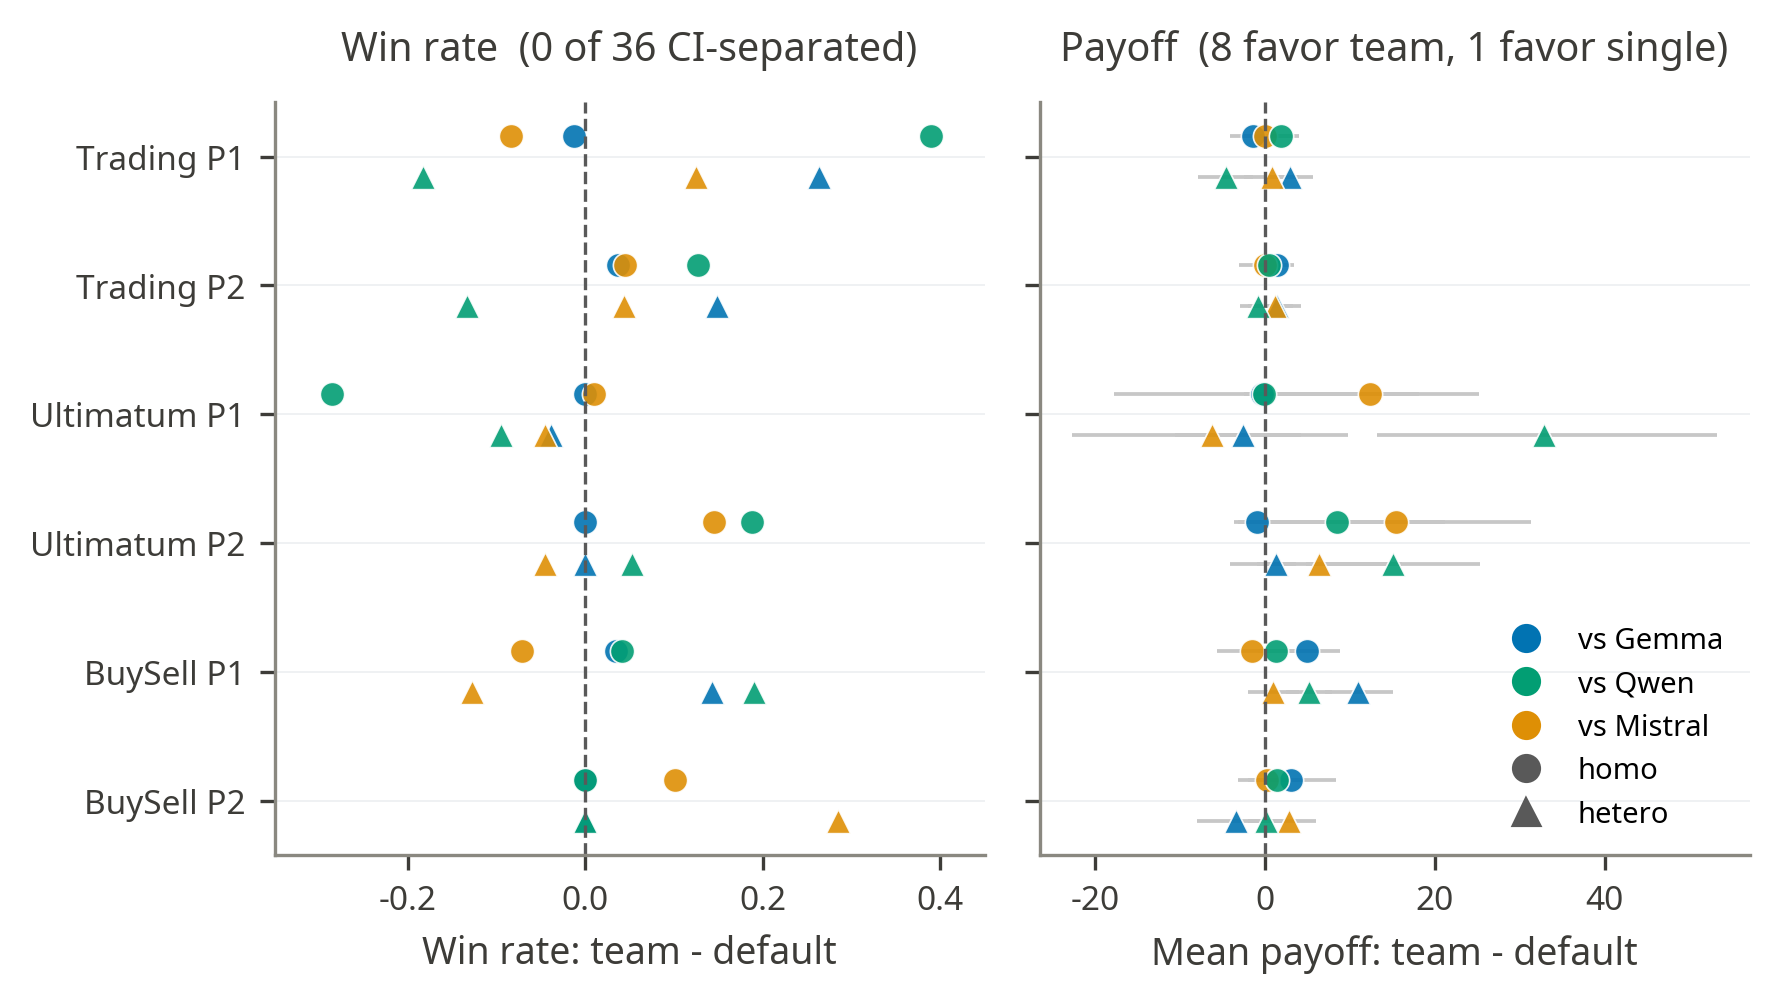
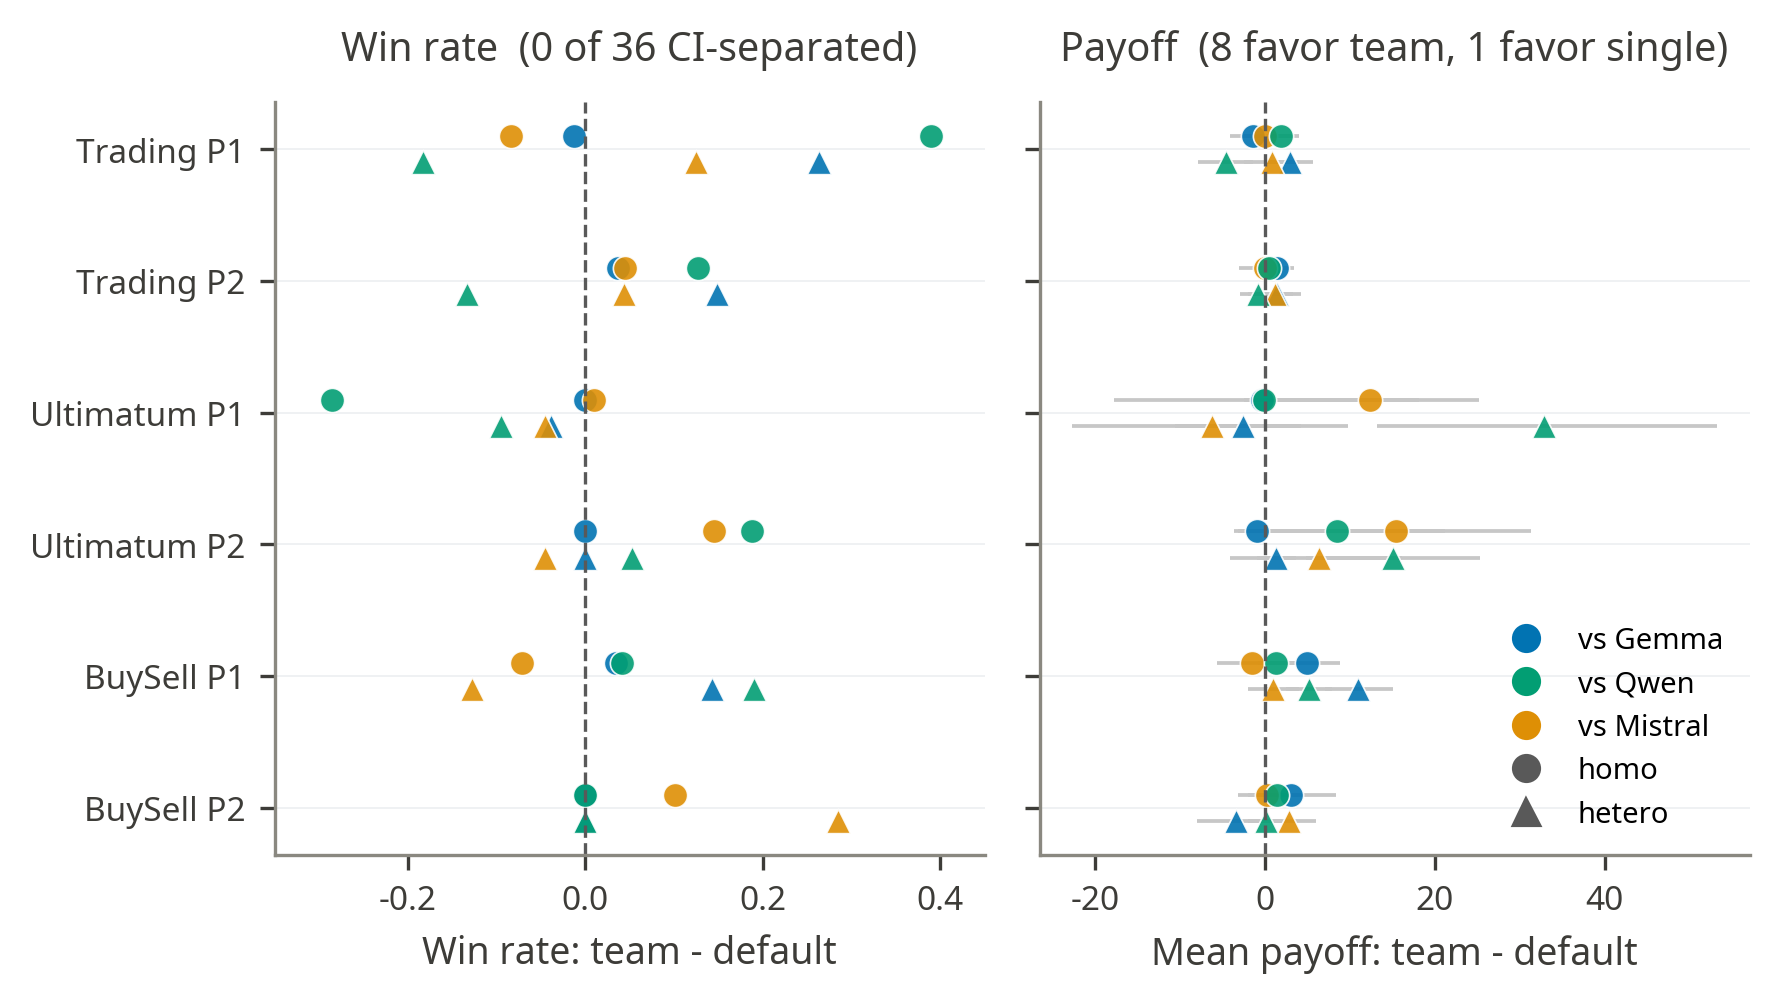
Update chapter 4 of the thesis

diff --git a/context/MSc_Thesis/body/chapter4.tex b/context/MSc_Thesis/body/chapter4.tex
@@ -299,29 +299,30 @@ change behaviour, sometimes strongly, but these gains are conditional. The main 
 
 \speaker{Final response (after two iterations)} I propose that I give you 10 Dollars. This is fair and gives you an incentive to accept.
 \end{negotiationexcerpt}
-
 \section{Team Negotiation} \label{sec:results-team}
 
 % Does a deliberating team of LLMs negotiate better than a single one?
+Finally, we ask whether a deliberating team of three models (Section~\ref{sec:team-negotiation}) negotiates better than a single agent. We compare \textit{homogeneous} teams, composed of three identical models, and \textit{heterogeneous} teams, whose members include one model from each family: Gemma, Mistral, and Qwen. We evaluate both compositions from the P1 and P2 seats at the small (12--14B) tier. 
 
 % Short answer: no, at least not in win rate -> As seen in \figure{fig:team-winrate-scatter} not a single team-versus-default comparison has separated confidence intervals
-
 % Averaged, the win-rate lift is small (+0.035), with homogeneous and heterogeneous teams both close to the default baseline.
-
-\begin{figure}
-    \centering
-    \includegraphics[width=0.80\linewidth]{figures/results/team/default_homo_hetero_winrate.png}
-    \caption{Team versus fixed-opponent single-agent win rate with Wilson 95\% confidence intervals. }
-    \label{fig:team-winrate-scatter}
-\end{figure}
 
 % Payoff tells a slightly more favourable, but still limited, story
 % Analyzing payoff there's a slight increase. 8 of the 36 configurations (game x seat x composition x opponent)  favour the team at the 95% confidence level, while only 1 favoured the single agent. 
 
+The short answer is that it does not, at least not in win rate. In win rate, not a single team-versus-default comparison has separated confidence intervals (Figure~\ref{fig:team-winrate-scatter}), only lifting the average win rate by 0.035 over the baseline. Payoff tells a marginally different story (Figure~\ref{fig:team-payoff-scatter}); eight of the thirty-six configurations favour the team, against one that favours the single agent.
+
+\begin{figure}
+    \centering
+    \includegraphics[width=0.80\linewidth]{figures/results/team/default_homo_hetero_winrate.png}
+    \caption{Team versus fixed-opponent single-agent win rate, one point per configuration, with Wilson 95\% confidence intervals. No configuration separates from the diagonal: deliberation does not raise win rate over the matched single-agent baseline.}
+    \label{fig:team-winrate-scatter}
+\end{figure}
+
 \begin{figure}
     \centering
     \includegraphics[width=0.80\linewidth]{figures/results/team/default_homo_hetero_payoff.png}
-    \caption{Team versus fixed-opponent single-agent payoff with Wilson 95\% confidence intervals. }
+    \caption{Team versus fixed-opponent single-agent payoff, one point per configuration, with bootstrap 95\% confidence intervals. Eight configurations favour the team and one the single agent; the rest are indistinguishable from the baseline.}
     \label{fig:team-payoff-scatter}
 \end{figure}
 
@@ -331,9 +332,11 @@ change behaviour, sometimes strongly, but these gains are conditional. The main 
 
 % The heterogeneous trio as the BuySell pools a surplus of +7.1 ZUP against the +1.6 of the fixed default agents
 
+Payoff gains tend to appear where the seat is structurally weak: out of the eight configurations in which teams achieve a higher payoff, five involve a disadvantaged seat. The clearest example is the heterogeneous trio as the BuySell seller (Figure~\ref{fig:team-buysell-seller}), which increases payoff by 5.6 ZUP. The heterogeneous trio in Ultimatum, when acting as proposer, has the highest single gain with a payoff against Qwen of +32.8. Per-configuration deltas are reported in the win-rate and payoff heatmaps in Appendix~\ref{ap6:team}.
+
 \begin{figure}
     \centering
-    \includegraphics[width=0.75\linewidth]{figures/results/team/buysell_seller_surplus.png}
+    \includegraphics[width=0.5\linewidth]{figures/results/team/buysell_seller_surplus.png}
     \caption{BuySell seller (Player~1) mean surplus by team composition and opponent, with bootstrap 95\% confidence intervals. The heterogeneous team's pooled advantage over the default single agent is $\Delta$\,$+5.6$ ZUP (CI $[3.3,\ 7.9]$), with individual separation against Gemma and Qwen opponents.}
     \label{fig:team-buysell-seller}
 \end{figure}
@@ -342,47 +345,59 @@ change behaviour, sometimes strongly, but these gains are conditional. The main 
 
 % Measuring within-turn draft diversity as the mean pairwise cosine distance between the three members’ TF-IDF-vectorised drafts, heterogeneous teams are consistently more diverse than homogeneous ones in every game (≈ 0.50 versus ≈ 0.36)
 
+One of our main objectives was to measure whether team diversity affects performance. To do so, we measured within-turn draft diversity as the mean pairwise cosine distance between the TF-IDF-vectorized drafts of the three team members. We found that heterogeneous teams are consistently more diverse than homogeneous teams in every game ($\approx 0.50$ versus $\approx 0.36$; Figure~\ref{fig:draft-diversity-bar}). However, this diversity does not translate into better outcomes. The mean heterogeneous-minus-homogeneous win-rate difference across the common-opponent configurations is essentially zero ($-0.005$; Figure~\ref{fig:homo-vs-hetero-wr}), and draft diversity has essentially no correlation with normalised payoff (Spearman $\rho \approx -0.05$, n.s.) and only a tiny negative association with win rate ($\rho \approx -0.09$, $p = 0.01$).
+
 \begin{figure}
     \centering
-    \includegraphics[width=0.72\linewidth]{figures/results/team/draft_diversity_bar.png}
+    \includegraphics[width=0.5\linewidth]{figures/results/team/draft_diversity_bar.png}
     \caption{Mean pairwise cosine distance between initial member drafts by composition and game. Heterogeneous teams consistently generate more diverse proposals than homogeneous ones, but this diversity is not positively associated with payoff or win rate.}
     \label{fig:draft-diversity-bar}
 \end{figure}
 
-% The mean heterogeneous-minus-homogeneous win-rate difference is approximately zero (−0.005)
-
 \begin{figure}
     \centering
-    \includegraphics[width=0.75\linewidth]{figures/results/team/homo_vs_hetero_winrate.png}
-    \caption{Homogeneous versus heterogeneous team win rate for the 18 common-opponent cells, with Wilson 95\% confidence intervals. No systematic advantage appears for either composition.}
+    \includegraphics[width=0.5\linewidth]{figures/results/team/homo_vs_hetero_winrate.png}
+    \caption{Homogeneous versus heterogeneous team win rate for the common-opponent configurations, with Wilson 95\% confidence intervals. No systematic advantage appears for either composition.}
     \label{fig:homo-vs-hetero-wr}
 \end{figure}
 
 \subsection{Consensus and Selection}
 
-%Across the 650 heterogeneous moves, the Ministral member’s draft wins the Borda count 80.5% of the time, while Gemma supplies 17.4% of chosen moves and Qwen only 2.2% 
+%Across the 650 heterogeneous moves, the Ministral member’s draft wins the Borda count 80.5% of the time, while Gemma supplies 17.4% of chosen moves and Qwen only 2.2%
+
+One possible pattern in how the team selects its move offers a candidate explanation for why diversity does not help: the consensus concentrates on a single member rather than spreading across the slate. Across the 650 committed heterogeneous moves, the Ministral member's draft wins the Borda count 80.5\% of the time, while Gemma accounts for only 17.4\% of chosen moves and Qwen just 2.2\%. This is not just Ministral choosing itself; all three families rank the Ministral draft first most often (Figure~\ref{fig:hetero-voter-pref}). This is especially problematic considering that in the cross-play benchmark, Qwen was the strongest model. 
+
+We considered two possibilities that may have biased this selection: the order in which the moves are presented and the length of the drafts. To rule out both possibilities, we used the homogeneous teams' results, since they hold the model constant and vary only slot and length.
+
+First, we consider the order of moves. The slate is always presented in the same order (Gemma, Ministral, Qwen), so it could be the case that the middle option had a position bias. When analyzing the ranking of slots in homogeneous teams, we do notice there is a position bias, but it favors the first slot (53.9\% against a 33.3\% chance baseline), a slot Ministral never occupies. 
+
+Length was also a possibility: Ministral writes the longest drafts on 84.2\% of turns, but within homogeneous teams, the longest draft wins just 38.2\% of the time, and draft length is uncorrelated with a draft's Borda score (Spearman $\rho = +0.006$, $p = 0.8$). The preference, therefore, tracks something in the content or style of Ministral’s drafts that we do not isolate here, rather than their position or length.
 
 \begin{figure}
     \centering
-    \includegraphics[width=0.72\linewidth]{figures/results/team/hetero_voter_preferences.png}
-    \caption{First-place ranking frequency in heterogeneous teams. All three families most often prefer the Ministral draft.}
+    \includegraphics[width=0.5\linewidth]{figures/results/team/hetero_voter_preferences.png}
+    \caption{First-place ranking frequency in heterogeneous teams, broken down by voting family. All three families most often rank the Ministral draft first, even though Qwen is the strongest single family in the benchmark.}
     \label{fig:hetero-voter-pref}
 \end{figure}
 
-\begin{negotiationexcerpt}{Three drafts, a ranking cycle, and a Borda-decided move}{Ultimatum, heterogeneous team (Gemma + Ministral + Qwen 12--14B) as P1; run \texttt{1780559236002}, turn 0}
-\speaker{Draft A (Gemma)} \texttt{Player RED Gives Dollars: 1}. ``Since BLUE has nothing, I can propose giving them a small amount \elide''
+\begin{negotiationexcerpt}[label=ex:team-consensus]{All three members vote down their own generosity}{Ultimatum, heterogeneous team (Gemma + Ministral + Qwen 12--14B) as proposer vs.\ a single Gemma; run \texttt{1780563747259}, turn 0}
+\speaker{Draft (Gemma)} \texttt{Player RED Gives Dollars: 25}~\elide
 
-\speaker{Draft B (Ministral)} \texttt{Player RED Gives Dollars: 1}. ``a minimal but fair starting point \elide''
+\speaker{Draft (Qwen)} \texttt{Player RED Gives Dollars: 25}. ``Offering 1 Dollar is too minimal and risks rejection \elide a more substantial share \elide aligns with behavioral economics research on ultimatum games.''
 
-\speaker{Draft C (Qwen)} \texttt{Player RED Gives Dollars: 20}. ``If they reject, both of us lose everything, so it's better to offer them a reasonable share.''
-
-\medskip
-\noindent After two discussion rounds the slate is $\{\$20, \$5, \$20\}$; the members' rankings cycle, the Borda count ties $3{:}3{:}3$, and the deterministic tie-break selects the first \$20 candidate, whose reasoning is re-voiced and committed:
+\speaker{Draft (Ministral)} \texttt{Player RED Gives Dollars: 1}. ``Any non-zero offer will be accepted, as rejection yields 0. A 1-Dollar offer guarantees acceptance while minimizing RED's loss to 1\%.''
 
 \medskip
-\speaker{Final move} ``Player RED proposes a trade: I offer you 20 Dollars from my 100. \elide Accept to secure your first gain, or reject and risk losing everything.'' 
+\noindent In the ranking phase all three members --- including the two who drafted the \$25 split --- place Ministral's \$1 draft first (Borda $6{:}2{:}1$). The winning reason is rewritten into first person, mentioning no teammates, and committed:
+
+\medskip
+\speaker{Final move} ``Give BLUE 1 Dollar. ACCEPT to secure this trade, REJECT to end the game with nothing for either. \elide Retaining 99 Dollars \elide is the Pareto-efficient outcome.''
+
+\speaker{P2 (single Gemma)} ``RED is offering 1 dollar. Since I have nothing, accepting this is the best possible outcome.''~\texttt{ACCEPT}
+
+\medskip
+\noindent Final split: the team keeps \$99, the responder \$1.
 \end{negotiationexcerpt}
-
 
 \subsection{Inside the Discussion}
 
@@ -391,7 +406,29 @@ change behaviour, sometimes strongly, but these gains are conditional. The main 
 %There's a convergence of proposals
 %Revisions tend to harden rather than concede
 
+Members rewrite their offer on 57\% of first-round revisions in heterogeneous teams and 44\% in homogeneous ones, with the second round revising less (40\% and 32\%). There is a convergence of offers with the number of rounds. Heterogeneous teams begin far apart, with all three members proposing the same offer on only 20\% of turns, rising to 48\% after one round and 59\% after the second. A similar pattern also occurs in homogeneous teams $(40\% \rightarrow 59\% \rightarrow 65\%)$.
+
+To measure the direction of the member's revisions each proposal is mapped onto the payoff its author would receive if the offer was accepted (the seller's price minus 40, the buyer's 60 minus price, the proposer's 100 minus offer, the responder's demanded share, and the net units received in Trading). A prevision then either raises this payoff (hardening, asking for more) or lowers it (conceding). 
+
+When a member revises its offer, it is usually to raise its own claim. This is clear in BuySell, where 73\% of revisions move up and the self-claim rises by about 5.3 ZUP on average, and weakly in Ultimatum and Trading. 
+
+\begin{figure}
+    \centering
+    \includegraphics[width=0.95\linewidth]{figures/results/team/revision_direction.png}
+    \caption{Direction of member revisions by game and team composition, comparing each member's initial draft with its final one. A revision \emph{hardens} if it raises the member's own payoff-if-accepted, \emph{softens} if it lowers it, and is \emph{no move} if the offer is unchanged. Most revisions leave the offer unchanged; where it moves, hardening dominates in BuySell and in heterogeneous Ultimatum teams, while Trading is balanced.}
+    \label{fig:team-revision-direction}
+\end{figure}
+
 \subsection{Cost}
 
-% How many more caracters are generated?
+% How many more characters are generated?
 % Taken together, team deliberation is not a reliable improvement for open-weight negotiators.
+
+On average, a single agent generates ~990 chars per move, an homogeneous team ~12,000 (12x) and an heterogeneous team ~14,700 (15x). Taken together, our implementation of team deliberation is not a reliable improvement for open-weight negotiators at this tier. It leaves win rate unchanged, moderately improves certain seat-specific payoff gains and increases by an order-of-magnitude the cost.
+
+\begin{figure}
+    \centering
+    \includegraphics[width=0.80\linewidth]{figures/results/team/character_count_proxy.png}
+    \caption{Character-count proxy for generation cost by arm. The public move grows by $1.47\times$ (homogeneous) and $2.35\times$ (heterogeneous) over the single-agent default, and the persisted internal deliberation is roughly $6$--$8\times$ the final public move on top of that.}
+    \label{fig:team-character-count}
+\end{figure}

diff --git a/context/MSc_Thesis/backmatter/appendix6.tex b/context/MSc_Thesis/backmatter/appendix6.tex
@@ -1,0 +1,35 @@
+\chapter{Additional Team Negotiation Results} \label{ap6:team}
+
+This appendix collects the per-configuration team-versus-default deltas for all thirty-six
+configurations (game $\times$ seat $\times$ composition $\times$ opponent) summarised in
+Section~\ref{sec:results-team}. 
+
+\begin{figure}[ht]
+    \centering
+    \includegraphics[width=0.85\linewidth]{figures/results/team/team_delta_winrate_heatmap.png}
+    \caption{Team-minus-default win-rate delta for every configuration. Most are close to
+    zero; none reach confidence-interval separation in win rate.}
+    \label{fig:team-delta-winrate-heatmap}
+\end{figure}
+
+\begin{figure}[ht]
+    \centering
+    \includegraphics[width=0.85\linewidth]{figures/results/team/team_delta_payoff_heatmap.png}
+    \caption{Team-minus-default payoff delta for every configuration. The few separated gains
+    are concentrated in first-player seats, led by the heterogeneous team in BuySell and
+    Ultimatum.}
+    \label{fig:team-delta-payoff-heatmap}
+\end{figure}
+
+\section{Consensus Controls} \label{ap6:consensus-controls}
+
+\begin{figure}[ht]
+    \centering
+    \includegraphics[width=0.95\linewidth]{figures/results/team/consensus_robustness.png}
+    \caption{Consensus from homogeneous teams (model held constant).
+    Left: winner share by slate slot; the ranking favours the first slot, which Ministral
+    never occupies. Right: mean draft length by member in heterogeneous teams; Ministral's
+    drafts are the longest, yet within homogeneous teams the longest draft wins only $38\%$
+    of votes, near the $33\%$ chance baseline.}
+    \label{fig:consensus-robustness}
+\end{figure}

diff --git a/context/MSc_Thesis/body/chapter3.tex b/context/MSc_Thesis/body/chapter3.tex
@@ -2,12 +2,12 @@
 
 \chapter{Methodology} \label{chap:ch3}
 
-This chapter describes how the negotiation capabilities of open-weight large language models were evaluated and how the two inference-time techniques studied in this thesis (Self-Refine and Team Negotiation) were implemented. Section~\ref{sec:na-framework} introduces the NegotiationArena framework of \textcite{bianchi_how_2024}, which is shared across all experiments, together with its three game scenarios and the metrics used to score them. Section~\ref{sec:models-infra} presents the models under evaluation and the infrastructure used to run them. The remaining sections describe the experimental design for each of the three contributions: benchmarking open-weight models (Section~\ref{sec:benchmarking}), self-refine (Section~\ref{sec:self-refine}) and team-based negotiation (Section~\ref{sec:team-negotiation}). Table~\ref{tab:experiment-design} summarises the full experimental design.
+This chapter describes how the negotiation capabilities of open-weight large language models were evaluated and how the two inference-time techniques studied in this thesis (Self-Refine and Team Negotiation) were implemented. Section~\ref{sec:na-framework} introduces the NegotiationArena framework of \textcite{bianchi_how_2024}, which is shared across all experiments, together with its three game scenarios (i.e., Price Negotiation, Trading, and Ultimatum) and the metrics used to score them. Section~\ref{sec:models-infra} presents the models under evaluation and the infrastructure used to run them. The remaining sections describe the experimental design for each of the three contributions: benchmarking open-weight models (Section~\ref{sec:benchmarking}), self-refine (Section~\ref{sec:self-refine}), and team-based negotiation (Section~\ref{sec:team-negotiation}). Table~\ref{tab:experiment-design} summarises the full experimental design.
 
 \begin{table}
 \centering
 \small
-\caption{Summary of the experimental design. All experiments are run on each of the three games and execute $30$ games per model pair and condition. The parse-error retry ablation (Sec.~\ref{sec:retry-ablation}) re-runs the benchmark cross-play and the social-persona conditions with \texttt{max\_retries}\,$=3$ and compares them against their \texttt{max\_retries}\,$=0$ baselines.}
+\caption{Summary of the experimental design. All experiments are run on each of the three games.  For each game, we report averaged results over $30$ runs, covering all combinations of model pairs and conditions. . The parse-error retry ablation (Sec.~\ref{sec:retry-ablation}) re-runs the benchmark cross-play and the social-persona conditions with \texttt{max\_retries}\,$=3$ and compares them against their \texttt{max\_retries}\,$=0$ baselines.}
 \label{tab:experiment-design}
 \begin{tabular}{llll}
 \toprule
@@ -23,7 +23,7 @@ Team negotiation (Sec.~\ref{sec:team-negotiation})      & Small  & Team vs.\ sin
 
 \section{NegotiationArena Framework} \label{sec:na-framework}
 
-\textcite{bianchi_how_2024} introduced NegotiationArena, an open-source framework to evaluate and analyze the negotiation abilities of LLM agents. The original work focused on proprietary models, some of which have since been deprecated; we keep the games and protocol unchanged, but replace the agents with the open-weight models identified in Table~\ref{tab:experiment-models} and extend it by implementing two inference-time techniques (Sections~\ref{sec:self-refine} and~\ref{sec:team-negotiation}). 
+\textcite{bianchi_how_2024} introduced NegotiationArena, an open-source framework to evaluate and analyze the negotiation abilities of LLM-based agents. The original work focused on proprietary models, some of which have since been deprecated; we keep the games and protocol unchanged, but replace the agents with the open-weight models identified in Table~\ref{tab:experiment-models} and extend it by implementing two inference-time techniques (Sections~\ref{sec:self-refine} and~\ref{sec:team-negotiation}). 
 
 \subsection{Games} \label{sec:games}
 % Explicar: Ultimatum Game; Trading Game; Price Negotiation (BuySell)
@@ -32,13 +32,13 @@ Team negotiation (Sec.~\ref{sec:team-negotiation})      & Small  & Team vs.\ sin
 In each scenario, two agents alternate turns for up to a fixed number of rounds, or until one side terminates the game. Before each move, the agent reasons privately step by step; this reasoning is never revealed to the opponent.
 
 \paragraph{Resource Exchange Scenario (Trading game).}
-In the trading game, each party starts with a set of resources and aims to maximise their total holdings. The parties exchange proposals until one is accepted or the maximum number of rounds is reached. The agent with the greater gain wins.
+In the trading game, each party starts with a set of resources and aims to maximise its total holdings. The parties exchange proposals until one is accepted or the maximum number of rounds is reached. The agent with the greater gain wins.
 
 \paragraph{Multi-Turn Ultimatum Game.}
 In this variation of the classic Ultimatum Game \cite{doi:10.1126/science.1082976}, one agent receives all of the game's resources but must propose a split that the other accepts in order for either to keep any of it. The second agent can either accept, counter-propose a new split, or reject outright, causing both agents to lose all resources. If no agreement is reached within the maximum number of rounds, both agents lose everything. The winner is the agent with the higher share of the agreed split.
 
 \paragraph{Seller and Buyer Scenario.}
-This is an incomplete-information game in which a seller and a buyer negotiate the price of an item. Each party holds a private valuation: the seller knows its production cost and the buyer its willingness to pay. On each turn, a player may issue a \textsc{Proposal}, \textsc{Accept} the opponent's offer, or \textsc{Reject} and end the game with no deal. An agent wins if the agreed price is closer to the opponent's reservation value than to its own.
+This is an incomplete-information game in which a seller and a buyer negotiate the price of an item. Each party holds a private valuation: the seller knows its production cost and the buyer its willingness to pay. On each turn, a player may issue a \textsc{Proposal}, \textsc{Accept} the opponent's offer, or \textsc{Reject} it (ending the game with no deal). An agent wins if the agreed price is closer to the opponent's reservation value than to its own.
 
 \paragraph{}
 
@@ -63,12 +63,12 @@ This is an incomplete-information game in which a seller and a buyer negotiate t
 
 % Usamos Win Rate (percentagem de jogos ganhos) e Average Payoff como usaram no NegotiationArena
 % Para além disso analisamos a completion rate - percentagem de jogos que alcançam um estado final (por vezes não alcançam por um erro de protocolo/formato). Esta métrica é especialmente importante para medir o impacto do nosso mecanismo de retry 
-Negotiation performance is measured using the two metrics adopted in the NegotiationArena (Win Rate and Average Payoff) complemented by a Completion Rate.
+Negotiation performance is measured using the two metrics adopted in the NegotiationArena (Win Rate and Average Payoff), complemented by a Completion Rate.
 
 \begin{itemize}
     \item \textbf{Win Rate:} Percentage of \textit{completed} games in which a party obtained a higher payoff than the other. As in NegotiationArena, ties are ignored.
-    \item \textbf{Average Payoff:} Average number of resources of each agent after the trade. Its definition is game-specific: in Price Negotiation it is the surplus ($\text{price} - \text{cost}$ for the seller, $\text{value} - \text{price}$ for the buyer); in Trading it is the net change in resource value ($\text{final} - \text{initial}$) and in Ultimatum it is the number of dollars retained.
-    \item \textbf{Completion Rate:} Proportion of games that reach a final state. Because smaller open-weight models frequently violated the response format, this metric is reported alongside the others, and is the primary metric for the retry ablation.
+    \item \textbf{Average Payoff:} Average number of resources of each agent after the trade. Its definition is game-specific: in Price Negotiation, it is the surplus ($\text{price} - \text{cost}$ for the seller, $\text{value} - \text{price}$ for the buyer); in Trading, it is the net change in resource value ($\text{final} - \text{initial}$); and, in Ultimatum, it is the number of dollars retained.
+    \item \textbf{Completion Rate:} Proportion of games that reach a final state. Because smaller open-weight models frequently violated the response format, this metric is reported alongside the others and is the primary metric for the retry ablation.
 \end{itemize}
 
 \section{Models and Infrastructure} \label{sec:models-infra}
@@ -82,9 +82,9 @@ Negotiation performance is measured using the two metrics adopted in the Negotia
 
 Open-weight models vary considerably in scale, so our objective was to group them into comparable parameter tiers in order to measure performance differences across model sizes. We defined three tiers: 4–9B, 12–14B, and 24–27B parameters. 
 
-For each tier, we selected models from three families: Qwen, Mistral, and Gemma. Maintaining a consistent version across all tiers was not possible for Qwen and Mistral, so we included models from both Qwen 3 and Qwen 3.5, and from Ministral and Mistral Small, respectively. We initially considered Llama models as well, but we noticed difficulties in adhering to the required output format; given the additional computational overhead this would entail, we excluded them from the benchmark. The selected models are listed in Table~\ref{tab:experiment-models}.
+For each tier, we selected models from three families: Qwen, Mistral, and Gemma. Maintaining a consistent version across all tiers was not possible for Qwen and Mistral, so we included models from both Qwen 3 and Qwen 3.5, and from Ministral and Mistral Small, respectively. We initially considered Llama models as well, but observed very low adherence to the required output format with this family of models. Given the additional computational overhead this would entail, we excluded them from the benchmark. The selected models are listed in Table~\ref{tab:experiment-models}.
 
-We applied $8$-bit quantization (\texttt{bitsandbytes}\footnote{\url{https://github.com/bitsandbytes-foundation/bitsandbytes}}) to Gemma, Qwen and Mistral-Small models; the Ministral models are already distributed in native FP8 precision. Generation uses temperature $0.7$ and top-p $0.9$ sampling, with a maximum of $1024$ new tokens per generation call.
+We applied $8$-bit quantization (\texttt{bitsandbytes}\footnote{\url{https://github.com/bitsandbytes-foundation/bitsandbytes}}) to Gemma, Qwen, and Mistral-Small models; the Ministral models are already distributed in native FP8 precision. Generation uses temperature $0.7$ and top-p $0.9$ sampling, with a maximum of $1024$ new tokens per generation call.
 
 \begin{table}
 \centering
@@ -126,7 +126,7 @@ Runs were distributed across three environments: Kaggle (2$\times$ NVIDIA T4), t
 
 % No início reparamos que os modelos open-weights, especialmente os mais pequenos (~4B) tinham uma completion rate baixa (não chegavam ao final de muitos jogos devido a problemas de formato ou de não seguirem o protocolo corretamente); Procuramos perceber se dando aos modelos uma mensagem de erro e a oportunidade de se auto corrigirem funcionaria; fizemos uma ablanation a de um baseline (max retries 0) com (max retries 3)
 
-The first contribution follows the experimental framework of NegotiationArena \cite{bianchi_how_2024}, evaluating open-weight models in place of the proprietary models of the original study. Our goal is to establish a baseline of how well current open-weight models negotiate across the three games and parameter tiers. Additionally, following \textcite{bianchi_how_2024}, we examine whether assigning a social persona changes the outcome of negotiations.
+The first contribution follows the experimental framework of NegotiationArena \cite{bianchi_how_2024}, evaluating open-weight models in place of the proprietary models of the original study. Our goal is to establish a baseline of how well current open-weight models negotiate across the three games and parameter tiers. Additionally, following \textcite{bianchi_how_2024}, we examine whether assigning a social persona affects negotiation outcomes.
 
 \subsection{Model Cross-Play} \label{sec:cross-play}
 
@@ -162,12 +162,12 @@ Following \textcite{bianchi_how_2024}, we analyse whether assigning a social per
 
 \subsection{Self-Correction} \label{sec:retry-ablation} 
 
-A practical obstacle with smaller open-weight models was that they frequently produced responses violating the required tag format, which could not be parsed into a valid move and ended the game prematurely. To address this, we test whether giving a model the opportunity to correct its formatting works. When a response fails to parse, the agent receives an error message containing its offending response together with the parser error, and is asked to resubmit its move in the correct format; this repeats up to \texttt{max\_retries} times, after which the game ends unparsed and is counted as incomplete. Figure~\ref{fig:retry_loop} illustrates this loop. We compare the baseline (\texttt{max\_retries}\,$=0$) against \texttt{max\_retries}\,$=3$ across both experiments.
+A practical obstacle with smaller open-weight models was that they frequently produced responses violating the required tag format, which could not be parsed into a valid move, thereby ending the game prematurely. To address this, we test whether giving a model the opportunity to correct its formatting works. When a response fails to parse, the agent receives an error message containing the invalid response and the corresponding parser error, and is asked to resubmit its move in the correct format; this repeats up to \texttt{max\_retries} times, after which the game ends unparsed and is counted as incomplete. Figure~\ref{fig:retry_loop} illustrates this loop. We compare the baseline (\texttt{max\_retries}\,$=0$) against \texttt{max\_retries}\,$=3$ across both experiments.
 
 \begin{figure}
     \centering
     \includegraphics[width=0.8\linewidth]{figures/methodology/SelfCorrection___Figure_page.jpg}
-    \caption{The parse-error self-correction loop applied each turn. A move is committed only once it parses into valid tags; otherwise the agent is fed the parser error and re-generates, up to \texttt{max\_retries} times, before the game is abandoned as incomplete. Unlike the Self-Refine loop of Figure~\ref{fig:self_refine_loop}, this loop is involuntary (entered only on a parse failure) and corrects \emph{format} rather than the quality of the move.}
+    \caption{The parse-error self-correction loop applied each turn. A move is committed only once it parses into valid tags; otherwise, the agent is fed the parser error and re-generates, up to \texttt{max\_retries} times, before the game is abandoned as incomplete. Unlike the Self-Refine loop of Figure~\ref{fig:self_refine_loop}, this loop is involuntary (triggered only when a parsing failure occurs) and corrects \emph{format} rather than the quality of the move.}
     \label{fig:retry_loop}
 \end{figure}
 

diff --git a/context/MSc_Thesis/main.tex b/context/MSc_Thesis/main.tex
@@ -195,5 +195,7 @@
 \include{backmatter/appendix2}
 \include{backmatter/appendix3}
 \include{backmatter/appendix4}
+%\include{backmatter/appendix5}
+\include{backmatter/appendix6}
 
 \end{document}